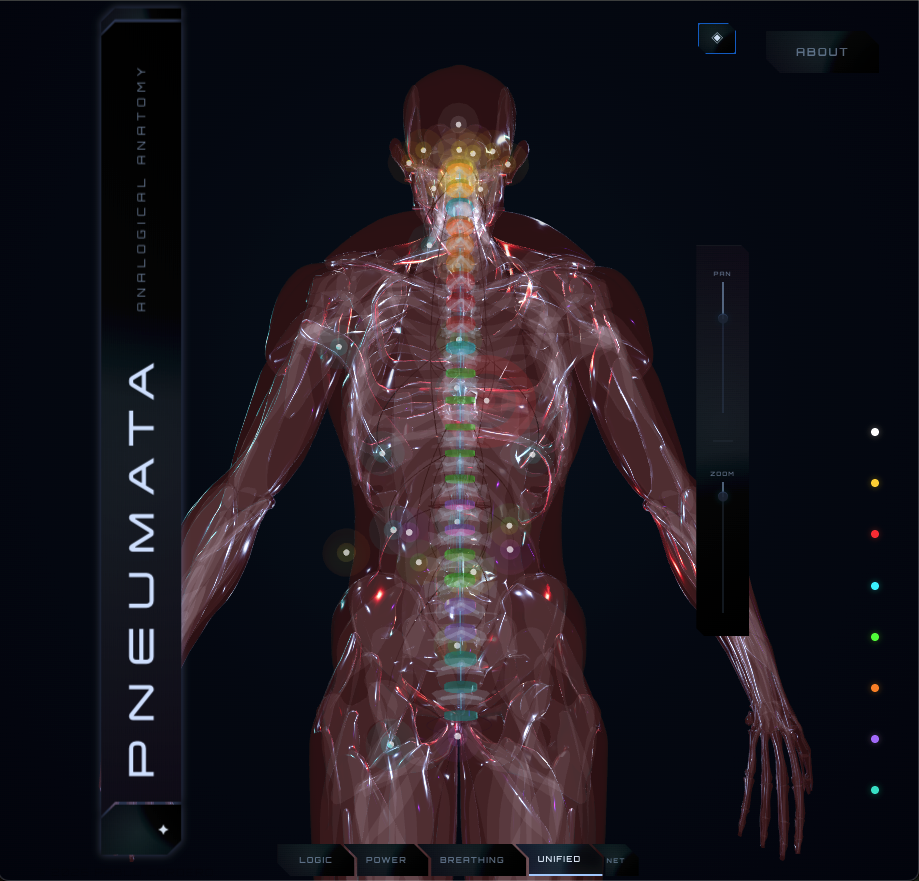
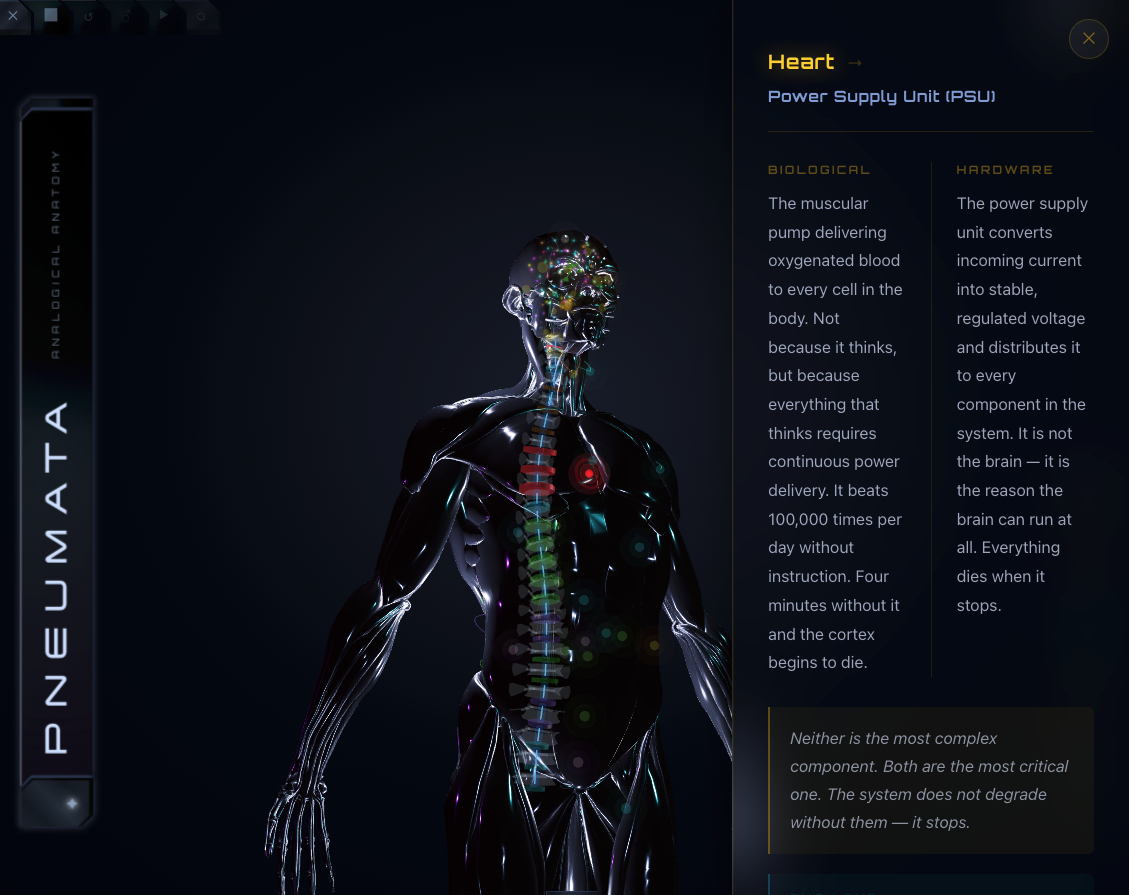
docs: replace README screenshots with curated new-shots gallery
10 images covering power mode, dark/obsidian, female figures, back
anatomy, disc detail, Heart=PSU modal, Neuron=Transistor modal,
brain zoom, and Axon=Data Bus modal.

diff --git a/README.md b/README.md
@@ -4,19 +4,27 @@
 
 ---
 
-![Power mode — full body red emissive glow, circulatory system at peak](public/screenshots/new-shots/power-mode-red.png)
+![Power mode — full body red emissive circulatory system](public/screenshots/new-shots/power-mode-hero.png)
 
-| Unified — ghost mesh                                                                                                   | Breathing — inhalation                                                                                                              |
-| ---------------------------------------------------------------------------------------------------------------------- | ----------------------------------------------------------------------------------------------------------------------------------- |
-| ![Unified mode — ghost mesh, all systems active, full circulatory layer](public/screenshots/new-shots/dark-mode-1.png) | ![Breathing mode — lung inhalation, semi-transparent mesh, right lung label](public/screenshots/new-shots/breathing-inhalation.png) |
+| Dark mode — obsidian                                                                                | Dark mode — female figure                                                                              |
+| --------------------------------------------------------------------------------------------------- | ------------------------------------------------------------------------------------------------------ |
+| ![Dark mode — obsidian body with glowing organ nodes](public/screenshots/new-shots/dark-mode-obsidian.png) | ![Female figure — dark mode close-up with vibrant spine](public/screenshots/new-shots/female-darkmode-closup.png) |
 
-| Light mode — node hover                                                                                         | Brain zoom — Logic view                                                                                                  |
-| --------------------------------------------------------------------------------------------------------------- | ------------------------------------------------------------------------------------------------------------------------ |
-| ![Light mode — liver hovered, green category highlight on spine](public/screenshots/new-shots/light-mode-7.png) | ![Brain zoom — Logic mode with cranial nodes clustered, vocal cords label](public/screenshots/new-shots/dark-mode-4.png) |
+| Female — power mode                                                                                       | Back view — all systems                                                                            |
+| --------------------------------------------------------------------------------------------------------- | -------------------------------------------------------------------------------------------------- |
+| ![Female figure — power mode full body](public/screenshots/new-shots/female-darkmode-power.png) | ![Back view — transparent mesh, all organ systems](public/screenshots/new-shots/DarkModeLightMode.png) |
 
-| About modal                                                                                               |     |
-| --------------------------------------------------------------------------------------------------------- | --- |
-| ![About modal — Philosophy tab with category breakdown](public/screenshots/new-shots/dark-mode-about.png) |     |
+| Back detail — vertebral discs                                                                      | Heart — Power Supply Unit modal                                                                  |
+| -------------------------------------------------------------------------------------------------- | ------------------------------------------------------------------------------------------------ |
+| ![Back detail — vertebral disc markers and connections](public/screenshots/new-shots/back-disks.png) | ![Heart node — Heart = PSU modal open](public/screenshots/new-shots/dark-mode-2.png) |
+
+| Neuron vs Transistor                                                                                              | Brain zoom — Axon / Data Bus                                                                         |
+| ----------------------------------------------------------------------------------------------------------------- | ---------------------------------------------------------------------------------------------------- |
+| ![Neuron vs Transistor — hardware analog comparison](public/screenshots/new-shots/neuron-transistor-modal.png) | ![Axon vs Data Bus — brain detail modal](public/screenshots/new-shots/axon-data-bus-modal.png) |
+
+| Brain zoom — cranial nodes                                                                     |     |
+| ---------------------------------------------------------------------------------------------- | --- |
+| ![Brain zoom — cranial nodes clustered with colorful spine](public/screenshots/new-shots/brain-zoom.png) |     |
 
 ---
 
